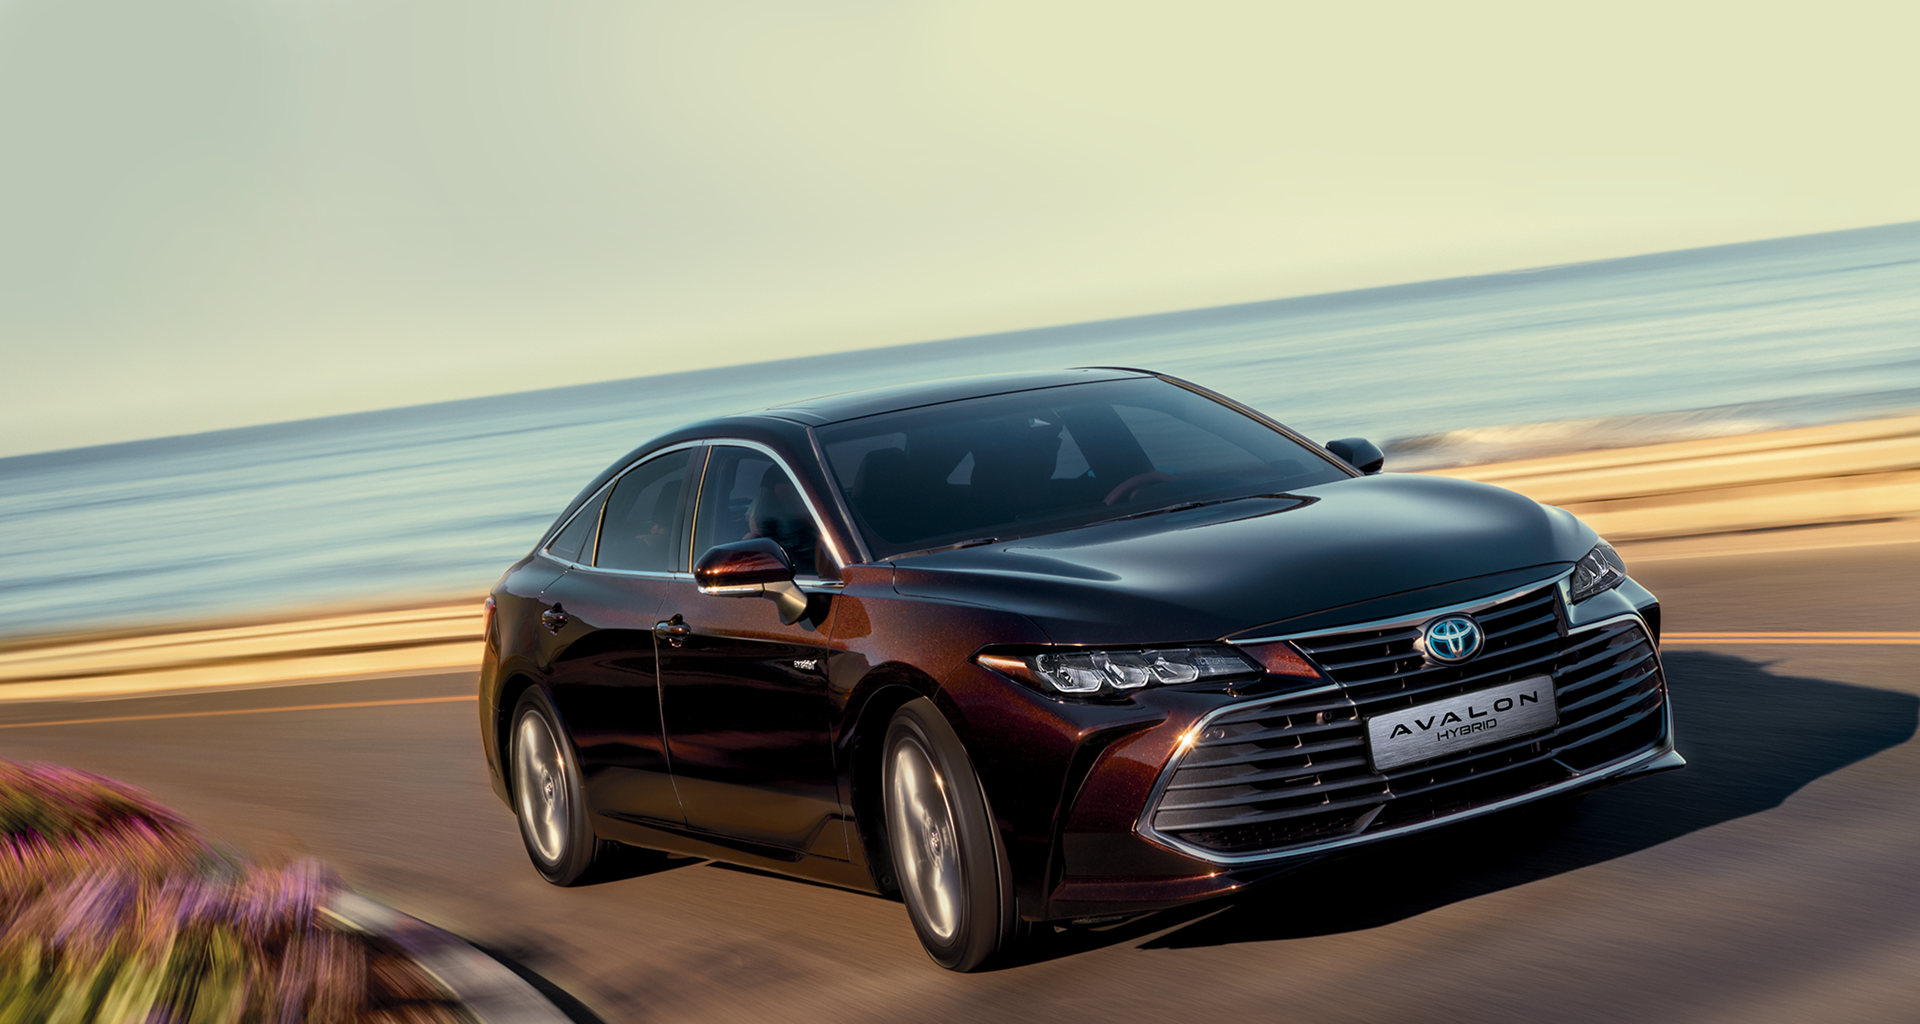
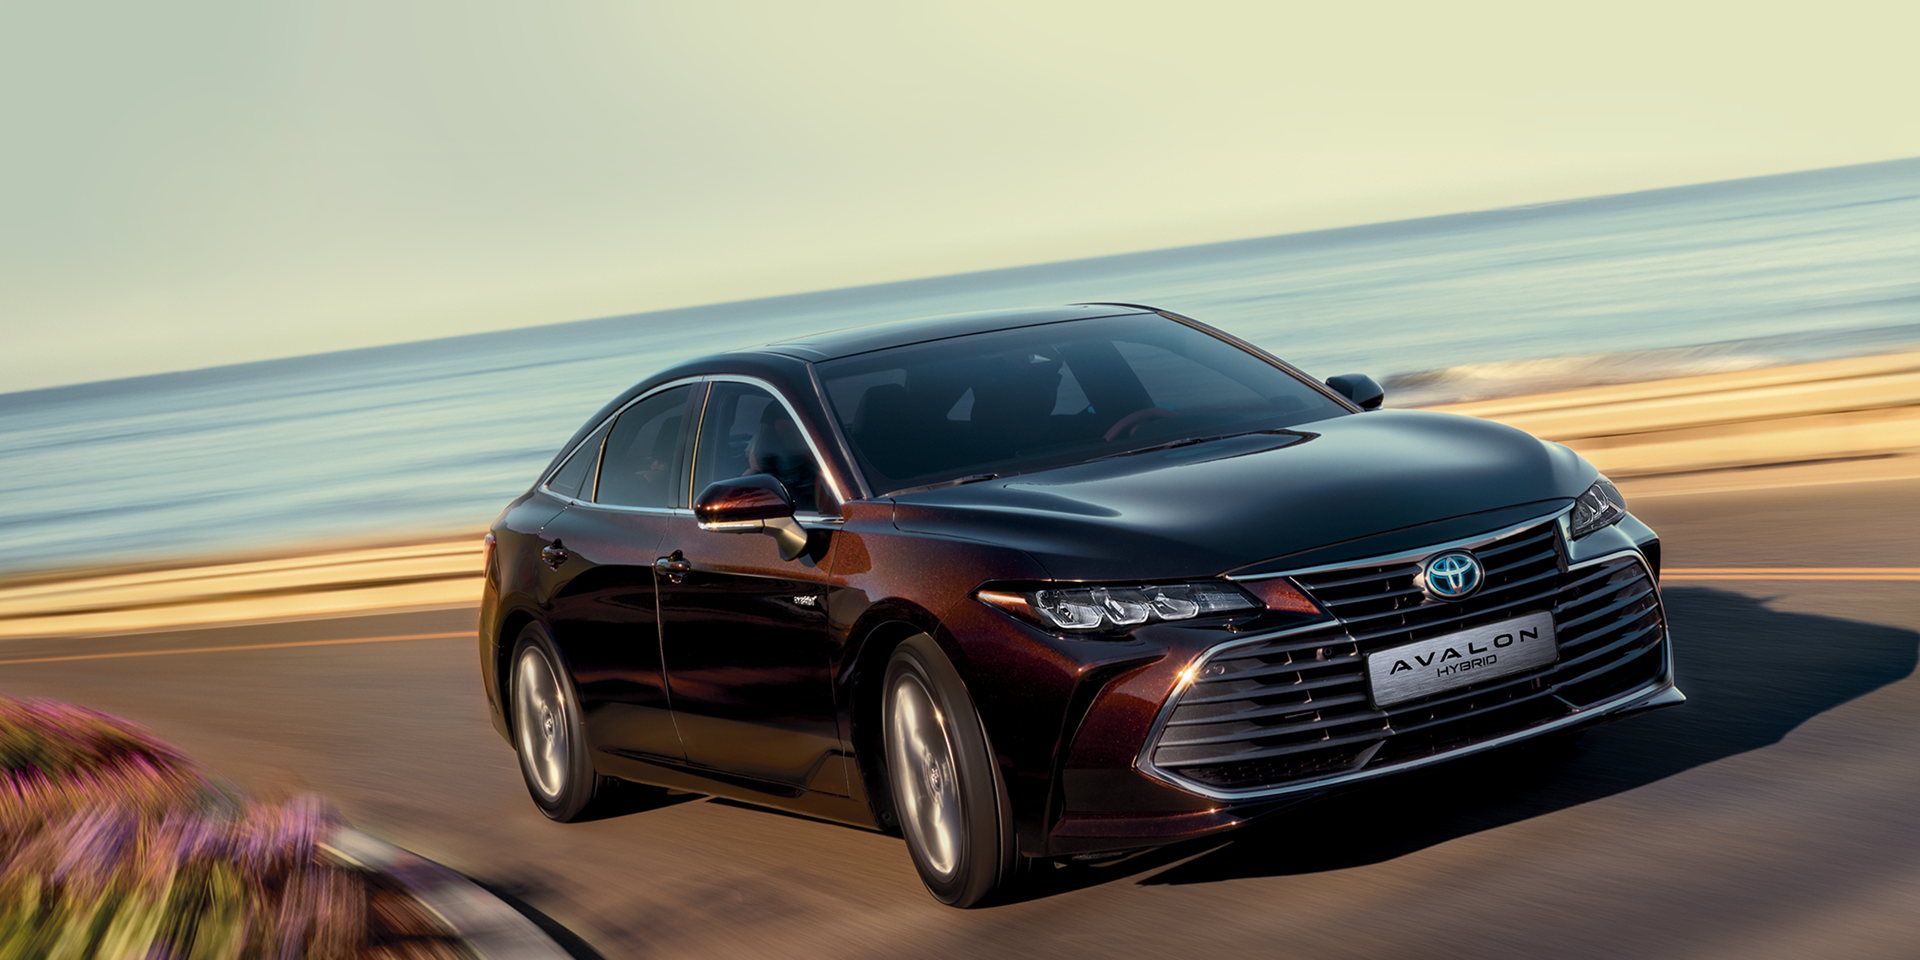
슬라이더완성 😭😭😭😭😭😭

diff --git a/toyota.html b/toyota.html
@@ -5,15 +5,13 @@
     <meta charset="UTF-8">
     <meta http-equiv="X-UA-Compatible" content="IE=edge">
     <meta name="viewport" content="width=device-width, initial-scale=1.0">
-    <meta name="description" content="toyota-renewal">
-    <meta name="author" content="jenn">
     <link rel="icon" href="./img/favi.png" type="image/png">
     <link rel="stylesheet" href="./css/main.css" type="text/css">
+    
     <script src="https://ajax.googleapis.com/ajax/libs/jquery/3.3.1/jquery.min.js"></script>
     <script src="https://cdn.jsdelivr.net/bxslider/4.2.12/jquery.bxslider.min.js"></script>
     <script src="./js/common.js"></script>
-    <script src="https://kit.fontawesome.com/2ee0bcaaa9.js" crossorigin="anonymous"></script>
-    <title>TOYOTA</title>
+    <title>TOYOTA-RENEWAL</title>
 </head>
 
 <body>
@@ -29,59 +27,51 @@
                 <li class="navbar-list navbar-remove"><a href="#">EVENT</a></li>
                 <li class="navbar-list navbar-remove"><a href="#">SERVICE</a></li>
             </ul>
-            <div class="navbar-list-btn toggle" onclick="toggleMenu();"><a href="#"><i class="fas fa-bars fa-lg"></a></i></div>
+            <div class="navbar-list-btn toggle""><a href="#"><img src="" alt=""></div>
         </header>
 
 
-        <section id="main-visual">
-            <div class="mainvisual-container">
-                <div class="mainvisual-container-list slideList">
-                    <div class="slideImg">
-                        <img src="./img/main/main-visual03.png" alt="AVALON">
-                        <div class="text-desc">
-                            <div class="text">AVALON</div>
-                            <div class="text-line"></div>
-                            <div class="numbertext">
-                                <div class="numbertext-space"><a href="#">시승신청하기</a></div>
-                                <div><a href="#">자세히알아보기</a></div>
-                            </div>
-                        </div>
-                    </div>
-                </div>
+        <section id="main_visual">
+            <ul class="mv">
 
-                <div class="mainvisual-container-list slideList">
-                    <div class="slideImg">
-                        <img src="./img/main/main-visual02.png" alt="Highlander">
-                        <div class="text-desc-2">
-                            <div class="text">Highlander</div>
-                            <div class="text-line-2"></div>
-                            <div class="numbertext-2">
-                                <div class="numbertext-space"><a href="#">시승신청하기</a></div>
-                                <div><a href="#">자세히알아보기</a></div>
-                            </div>
+                <li class="mv1">
+                    <div class="txt">
+                        <h2 class="text">AVALON</h2>          
+                        <div class="numbertext">
+                            <div class="numbertext-space"><a href="#">시승신청하기</a></div>
+                            <div><a href="#">자세히알아보기</a></div>
                         </div>
                     </div>
-                </div>
-                <div class="mainvisual-container-list slideList">
-                    <div class="slideImg">
-                        <img src="./img/main/main-visual01.png" alt="2021 MIRAI">
-                        <div class="text-desc-3">
-                            <div class="text">2021 MIRAI</div>
-                            <div class="text-line-3"></div>
-                            <div class="numbertext-3">
-                                <div class="numbertext-space"><a href="#">시승신청하기</a></div>
-                                <div><a href="#">자세히알아보기</a></div>
-                            </div>
+                </li>
+
+                <li class="mv2">
+                    <div class="txt">
+                        <h2 class="text">Highlander</h2>
+                        <div class="numbertext-2">
+                            <div class="numbertext-space"><a href="#">시승신청하기</a></div>
+                            <div><a href="#">자세히알아보기</a></div>
                         </div>
                     </div>
-                </div>
-            </div>
+                </li>
+
+                <li class="mv3">
+                    <div class="txt">
+                        <h2 class="text">2021 MIRAI</h2>
+                        <div class="numbertext-3">
+                            <div class="numbertext-space"><a href="#">시승신청하기</a></div>
+                            <div><a href="#">자세히알아보기</a></div>
+                        </div>
+                    </div>
+                </li>
+
+            </ul>
+            
         </section>
         <!-- //mainvisual -->
 
 
         <!-- sidebar -->
-        
+
         <div class="sidebar">
             <ul class="menu">
                 <li><a href="#models" onclick="toggleMenu();">Models</a></li>
@@ -145,7 +135,7 @@
             <div class="models-side-wrap">
                 <div class="models-left">
                     <ul class="models-left-lists">
-                        <li><img src="./img/main/2021 MIRAI -left.png" alt="2021 MIRAI"></li>                        
+                        <li><img src="./img/main/2021 MIRAI -left.png" alt="2021 MIRAI"></li>
                         <li><img src="./img/main/AVALON-left.png" alt="Avalon"></li>
                         <li><img src="./img/main/HIGHLANDER-left.png" alt="highlander"></li>
                         <li><img src="./img/main/CAMARY-left.png" alt="2021 MIRAI"></li>
@@ -228,13 +218,17 @@
 
                     <div class="customise-carimg selected">
                         <ul>
-                            <li class="one" ><a href="#"><img class="one active src="./img/main/custom-bk.png" alt="2021 MIRAI"></a></li>
+                            <li class="one"><a href="#"><img class="one active src=" ./img/main/custom-bk.png"
+                                        alt="2021 MIRAI"></a></li>
 
-                            <li class="two"><a href="#"><img class="two" src="./img/main/custom-blue.png" alt="2021 MIRAI"></a></li>
+                            <li class="two"><a href="#"><img class="two" src="./img/main/custom-blue.png"
+                                        alt="2021 MIRAI"></a></li>
 
-                            <li class="three" ><a href="#"><img class="three" src="./img/main/custom-red.png" alt="2021 MIRAI"></a></li>
+                            <li class="three"><a href="#"><img class="three" src="./img/main/custom-red.png"
+                                        alt="2021 MIRAI"></a></li>
 
-                            <li class="four"><a href="#"><img class="four" src="./img/main/custom-grey.png" alt="2021 MIRAI"></a></li>
+                            <li class="four"><a href="#"><img class="four" src="./img/main/custom-grey.png"
+                                        alt="2021 MIRAI"></a></li>
                         </ul>
                     </div>
 
@@ -271,6 +265,8 @@
 
         <section id="brandstory">
             <h2>BRANDSTORY</h2>
+            <div class="scrollDist"></div>
+
             <video muted autoplay loop>
                 <source src="./video/toyota-brand.mp4">
             </video>
@@ -285,7 +281,7 @@
                     </p>
                 </div>
                 <img src="./img/main/brandstory.png" alt="brandstory">
-            </div>
+            </div> -->
         </section>
 
         <div id="event-footer-wrap">
@@ -357,10 +353,7 @@
         </footer>
         </section>
 
-    </div>
-
-    </div>
-
+    </div> -->
 </body>
 
 </html>

diff --git a/css/main.css b/css/main.css
@@ -3,6 +3,7 @@
 @import "./component.css";
 @import url('https://fonts.googleapis.com/css2?family=Noto+Sans+KR:wght@100;300;400;500;700&display=swap');
 /* root ,size definition */
+
 .toggle{
     position: fixed;
     top: 26px;
@@ -23,8 +24,7 @@
 }
 
 
-
-
+#wrap{overflow: hidden;}
 /* navbar start */
 #navbar {width:100%; position:absolute; top: 10px; left:0; z-index: 1; display: flex; justify-content: space-around; align-items: center;}
 #navbar .navbar-gnb-list{display: flex;  font-size: var(--font-regular);
@@ -39,25 +39,52 @@ font-weight: var(--weight-regualr); letter-spacing:0;}
 
 
 
-/*main-visual*/
-#main-visual{height:1024px; position: relative; text-align: center;}
-.mainvisual-container{position:relative; display:flex;}
-.mainvisual-container-list{display: flex; height:1024px; flex-direction: column;justify-content: center;}
-.mainvisual-container-list img{margin:0 auto;}
-.slideList{width:100%;}
-.slideImg{position:relative;}
-.slideImg .text{font-size: 48px; font-weight: bold; letter-spacing:-2.5px;
-padding: 20px 0; position: relative; left: 210px;}
-.text-desc{ position: absolute; right: 10px; bottom: 150px; color: #fff;}
-.text-line {border:1.5px solid #fff; width:954px;}
-.numbertext{font-size: 24px; display: flex; margin-top: 25px; position: absolute; right: 160px;}
-.text-desc-2{ position: absolute; right: 10px; bottom: 150px; color: #fff;}
-.text-line-2 {border:1.5px solid #fff; width:954px;}
-.numbertext-2{font-size: 24px; display: flex; margin-top: 25px; position: absolute; right: 145px;}
-.text-desc-3{ position: absolute; right: 10px; bottom: 150px; color: #000;}
-.text-line-3 {border:1.5px solid #000; width:954px;}
-.numbertext-3{font-size: 24px; display: flex; margin-top: 25px; position: absolute; right: 140px;}
-.numbertext-space{padding-right: 20px;}
+/* 제발좀 돌아가줄래? */
+#main_visual { height: 50vw; text-align: center; position: relative;  }
+
+#main_visual .mv li { height: 50vw; }
+#main_visual .mv li.mv1 { background: url('../img/main/main-visual03.png') no-repeat center top; background-size: cover; }
+#main_visual .mv li.mv2 { background: url('../img/main/main-visual02.png') no-repeat center top; background-size: cover; }
+#main_visual .mv li.mv3 { background: url('../img/main/main-visual01.png') no-repeat center top; background-size: cover; }
+
+#main_visual .txt { position: absolute; top: 50%; width: 100%; transform: translateY(-50%); }
+#main_visual h2 {font-size: 6.25rem; }
+#main_visual .numbertext { font-size: 0.875rem; line-height: 1.5; }
+
+#main_visual .bx-pager { position:absolute; bottom:10.416vw; left:50%; transform: translateX(-50%); }
+#main_visual .bx-pager-item { float:left; }
+#main_visual .bx-pager a {position: relative; top: 90px; background:#fff; font-size: 0; display:block; width:8px; height:8px; margin:0 5px; border-radius:5px; transition:all 0.2s; }
+#main_visual .bx-pager a.active { background:#e61115; position: relative; }
+#main_visual .bx-controls-direction a { position: absolute; top: 50%; margin-top: -20px; width: 40px; height: 40px;  text-indent: -9999px; }
+
+
+
+
+/* Tablets */
+@media all and (max-width : 991px) {
+    #main_visual { height: 93.75vw; }
+    #main_visual .mv li { height: 93.75vw; }
+    #main_visual h2 { font-size: 9.765vw; }
+    #main_visual .bx-pager a {position: relative; top: 60px; background:#fff; font-size: 0; display:block; width:8px; height:8px; margin:0 5px; border-radius:5px; transition:all 0.2s; }
+}
+
+
+/* Mobile */
+@media all and (max-width : 500px) {
+    #main_visual { height: 125vw; }
+    #main_visual .mv li { height: 125vw; }
+    #main_visual h2 { font-size: 13.02vw; }
+    #main_visual .bx-controls-direction a { display: none; }
+    #main_visual .bx-pager a {position: relative; top: 20px; background:#fff; font-size: 0; display:block; width:8px; height:8px; margin:0 5px; border-radius:5px; transition:all 0.2s; }
+}
+
+
+
+
+
+
+
+
 
 
 
@@ -67,10 +94,14 @@ padding: 20px 0; position: relative; left: 210px;}
     150px;}
 #toyota-models .models-nav-menu{display: flex; cursor: pointer; justify-content: space-around;} 
 #toyota-models .models-nav-menu li{font-size: var(--font-medium); font-weight: 700; color:rgb(100, 100, 100,0.3);letter-spacing: -1px;}
-#toyota-models .models-nav-menu li:hover{
-    color: rgb(100,100,100); 
+#toyota-models .models-nav-menu li:hover figcaption{
+    color: #000; 
+    font-weight: bold;
     transition: all 0.5s;
     transform: translateY(-10px);
+}
+#toyota-models .models-nav-menu li:hover img{
+    opacity: 0.7;
 }
 .models-side-wrap{display: flex;}
 .models-right{display: flex; align-items: center;}
@@ -143,8 +174,19 @@ padding: 10px 10px; justify-content: center; position: relative; top: 280px;}
 
 
 /* brand stroy start */
-#brandstory{position: relative;height:1500px; }
+#brandstory{
+    position: relative;
+    background:#ddd;
+    font-size:99px;
+    text-align:center;}
 #brandstory h2{ position: relative; left:100px; top: 80px; letter-spacing: -1px; margin:95px 30px 0 0px; color: #ffffff;}
+
+
+
+#brandstory div {
+position:absolute;
+
+}
 #brandstory video{display:flex;  margin:0 auto;}
 #brandstory .brandstory-description{display: flex; margin-top: 130px; justify-content:space-around; align-items:center;}
 #brandstory .brandstory-description div{margin-left:30px; line-height: 1.5;}
@@ -152,14 +194,10 @@ padding: 10px 10px; justify-content: center; position: relative; top: 280px;}
 
 
 
-
-
-
-
 #event-footer-wrap{
     position: relative;
-    margin-top:150px;
-    height: 1080px;
+    width: 100%;
+    height: 100%;
     justify-content:center;
     background: url('../img/main/footer-bg.png')no-repeat center center fixed;
 }

diff --git a/js/common.js b/js/common.js
@@ -1,7 +1,8 @@
-// 토글메뉴
-function toggleMenu(){
-    const menuToggle = document.querySelector('.toggle');
-    const sidebar = document.querySelector('.sidebar');
-    menuToggle.classList.toggle('active');
-    sidebar.classList.toggle('active');
-}
+
+$(document).ready(function () {
+
+  // 메인슬라이드
+$(".mv").bxSlider({
+    auto: true
+});
+});
